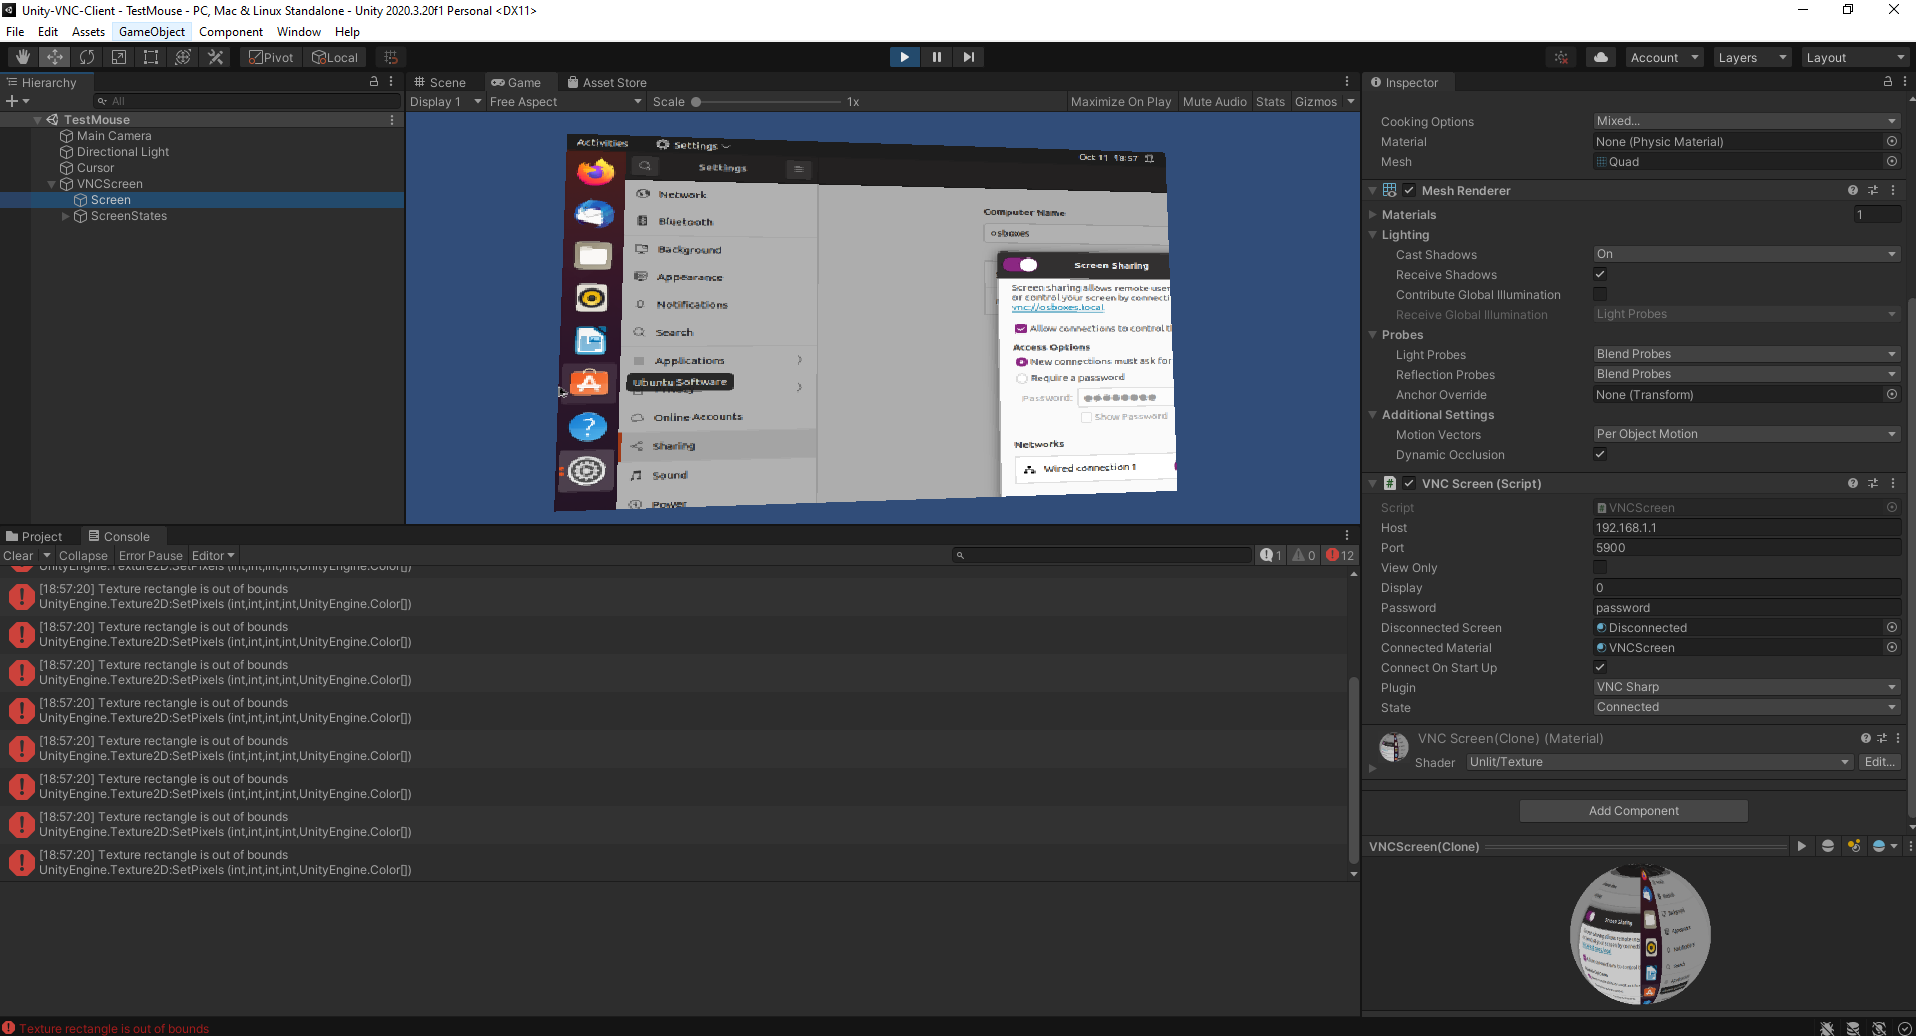
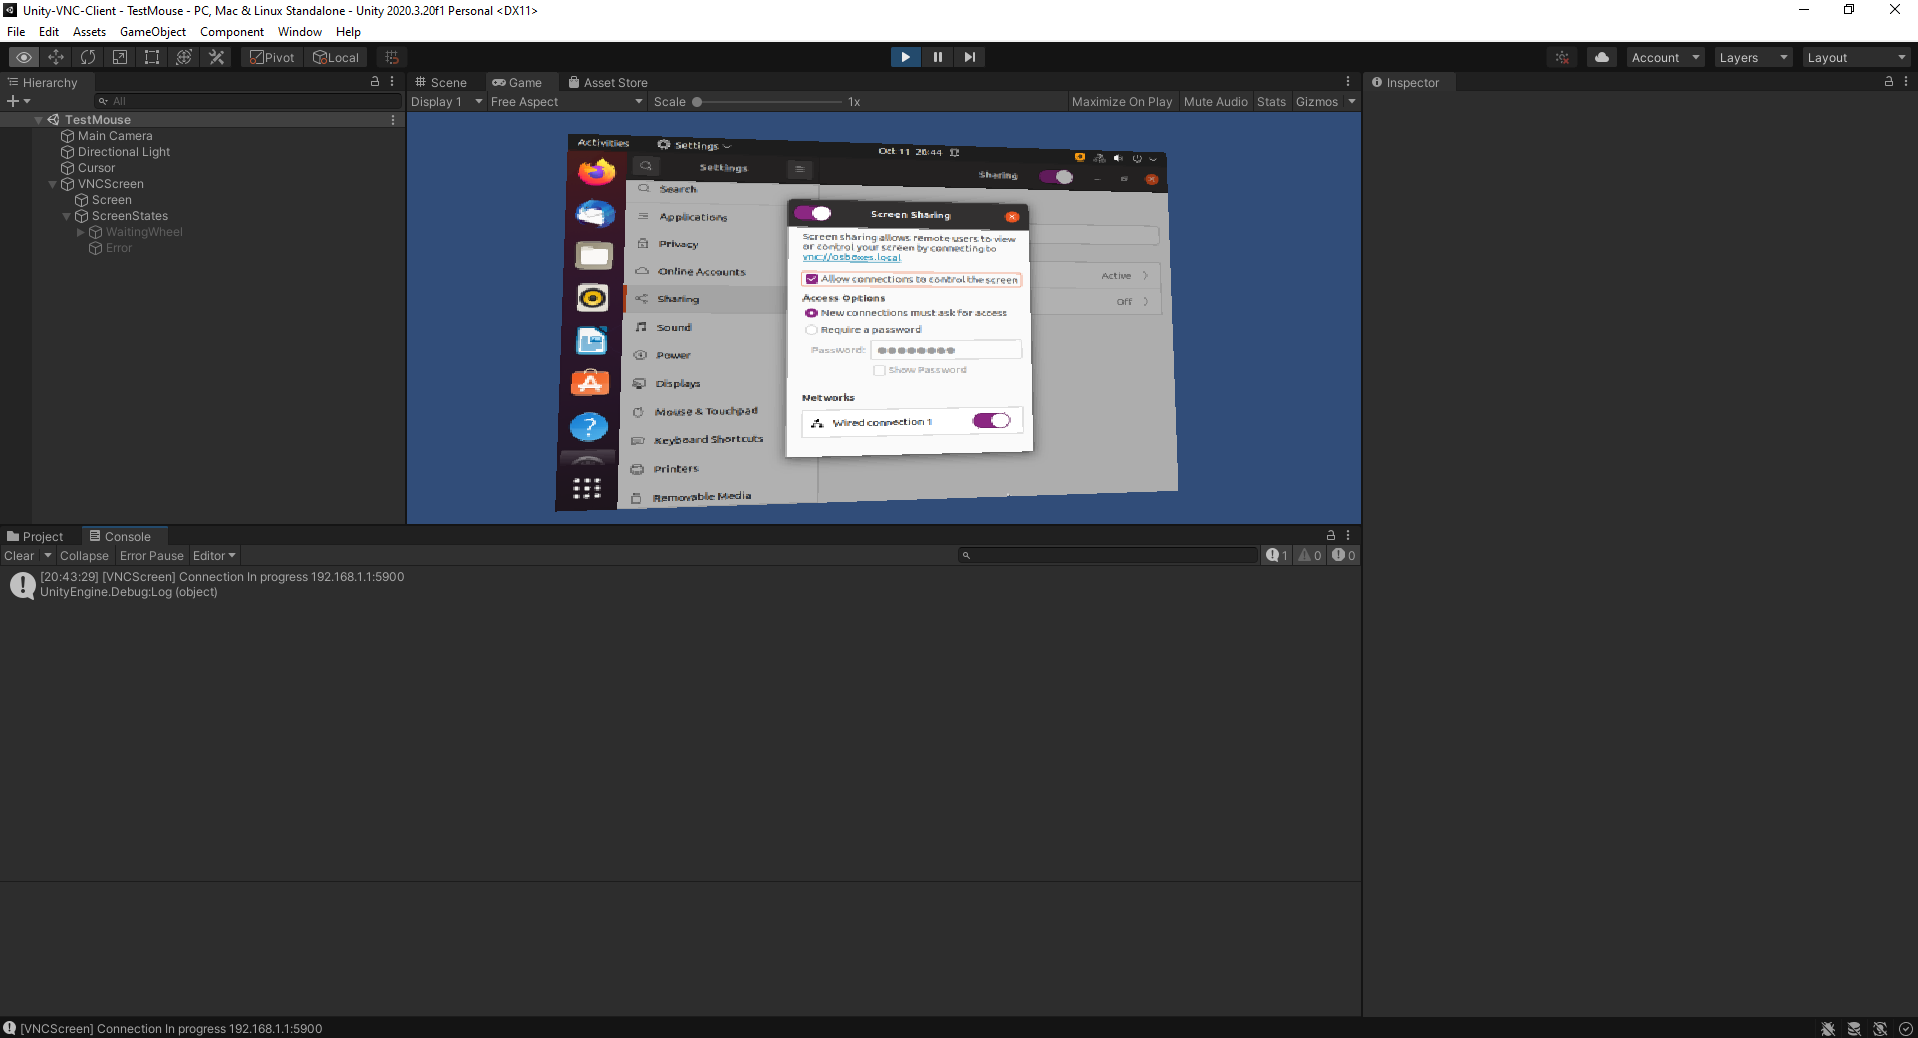
changed vm resolution to 800x600 to get rid of errors
documentation images had errors because the resolution was not 800x600, fixed so the documentation looks cleaner.

diff --git a/docs/testing.md b/docs/testing.md
@@ -31,7 +31,7 @@ Using this document you will be able to successfully test the Unity project.
 - Verify default project connection information is correct.  Change information as needed.  
 - Play project.
 - Verify connection.  
-- Note: In the following image.  There are some errors with the resolution of the texture being out of bounds.  
+- Note: The password had to be removed, because the authentication was not working properly.  
 - ![img](./img/testing/testing001.png)
 - Verify operation by moving windows on guest vm in Unity.  
 - ![img](./img/testing/testing002.png)
